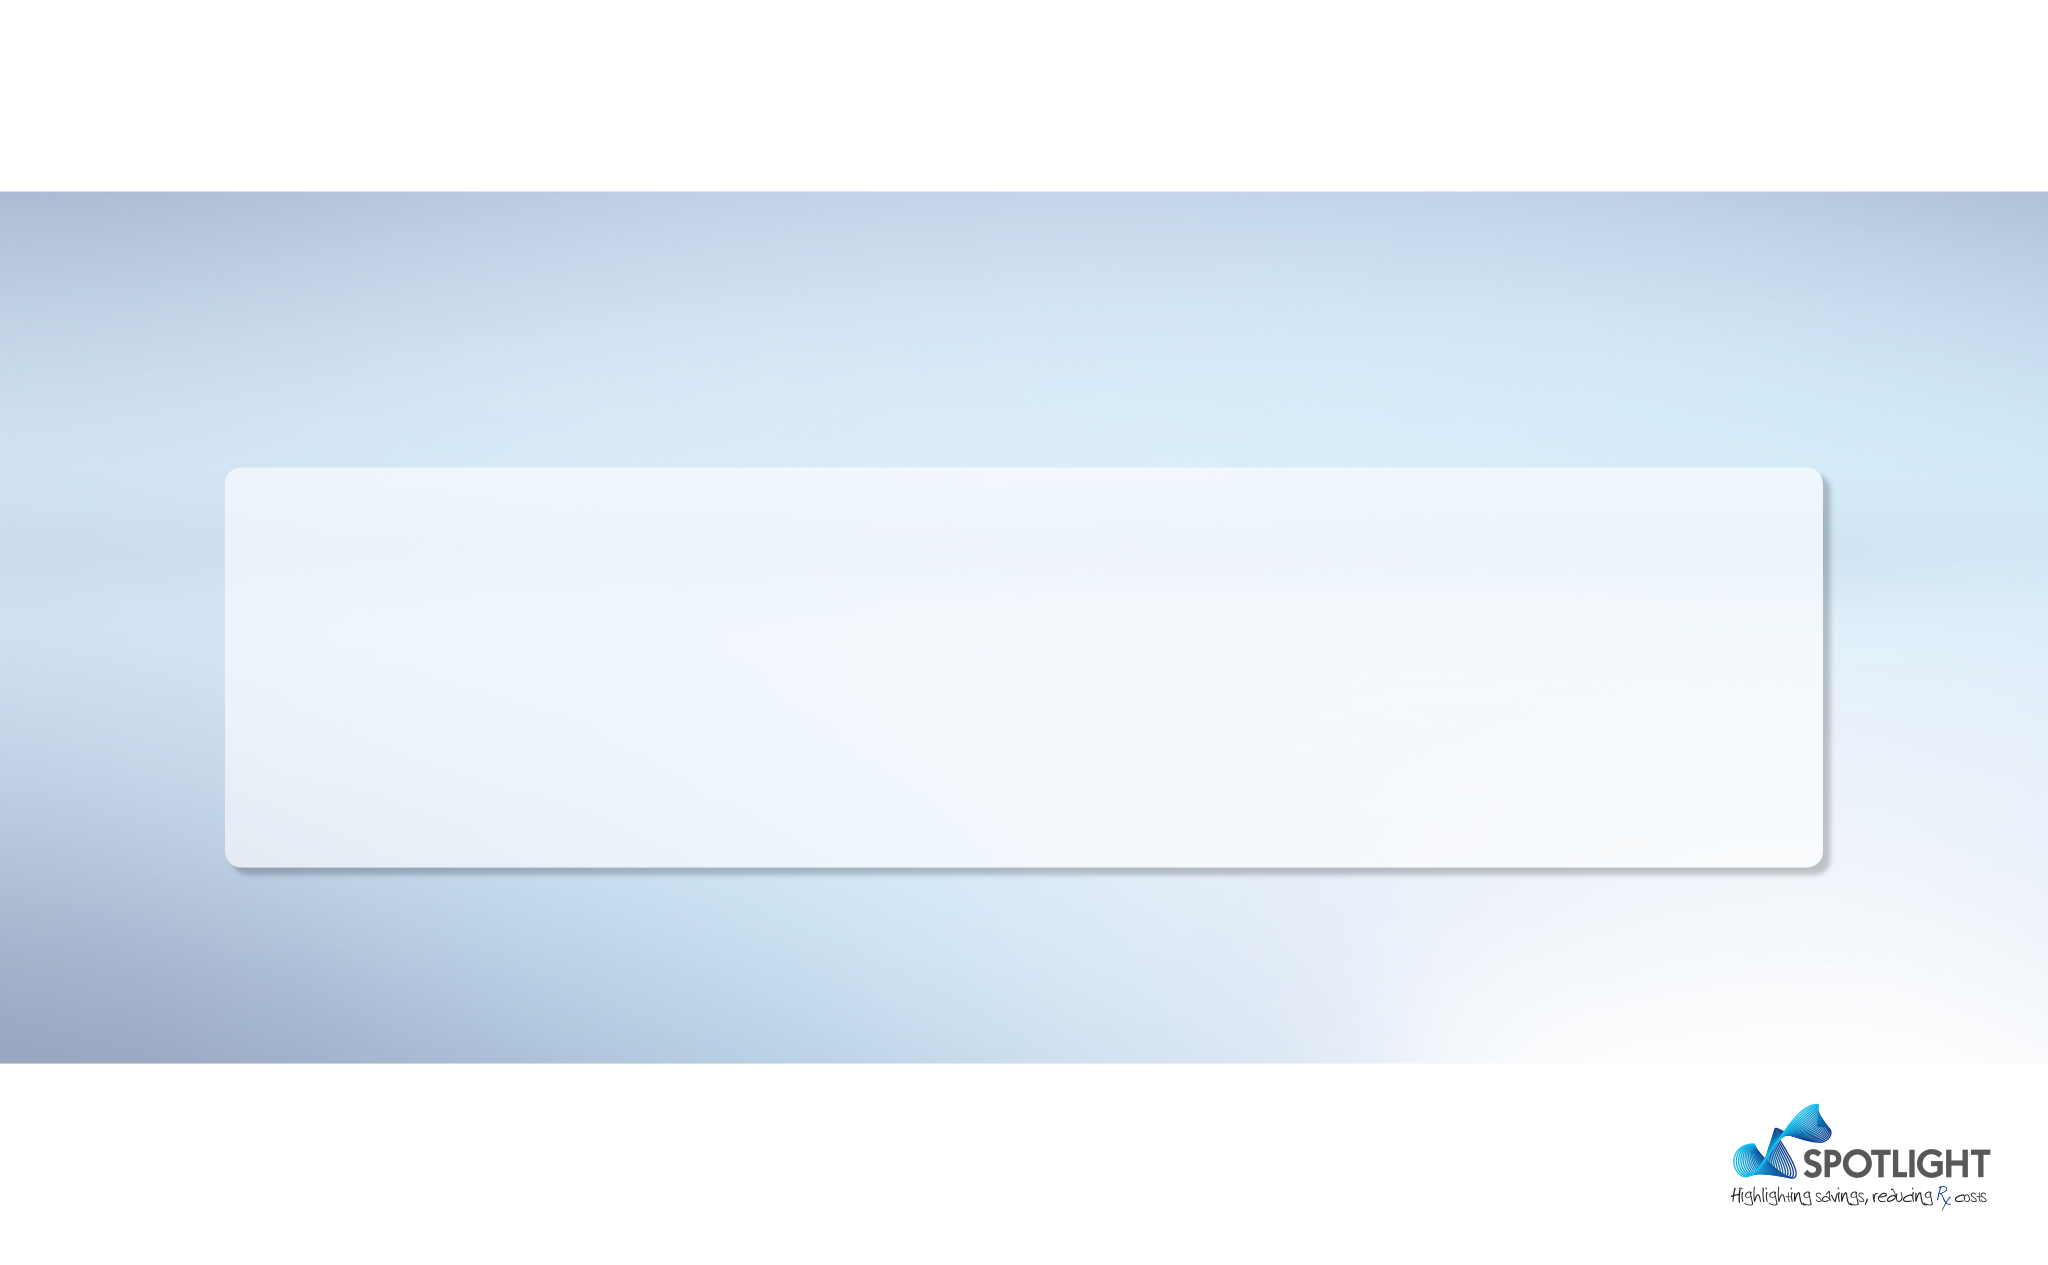
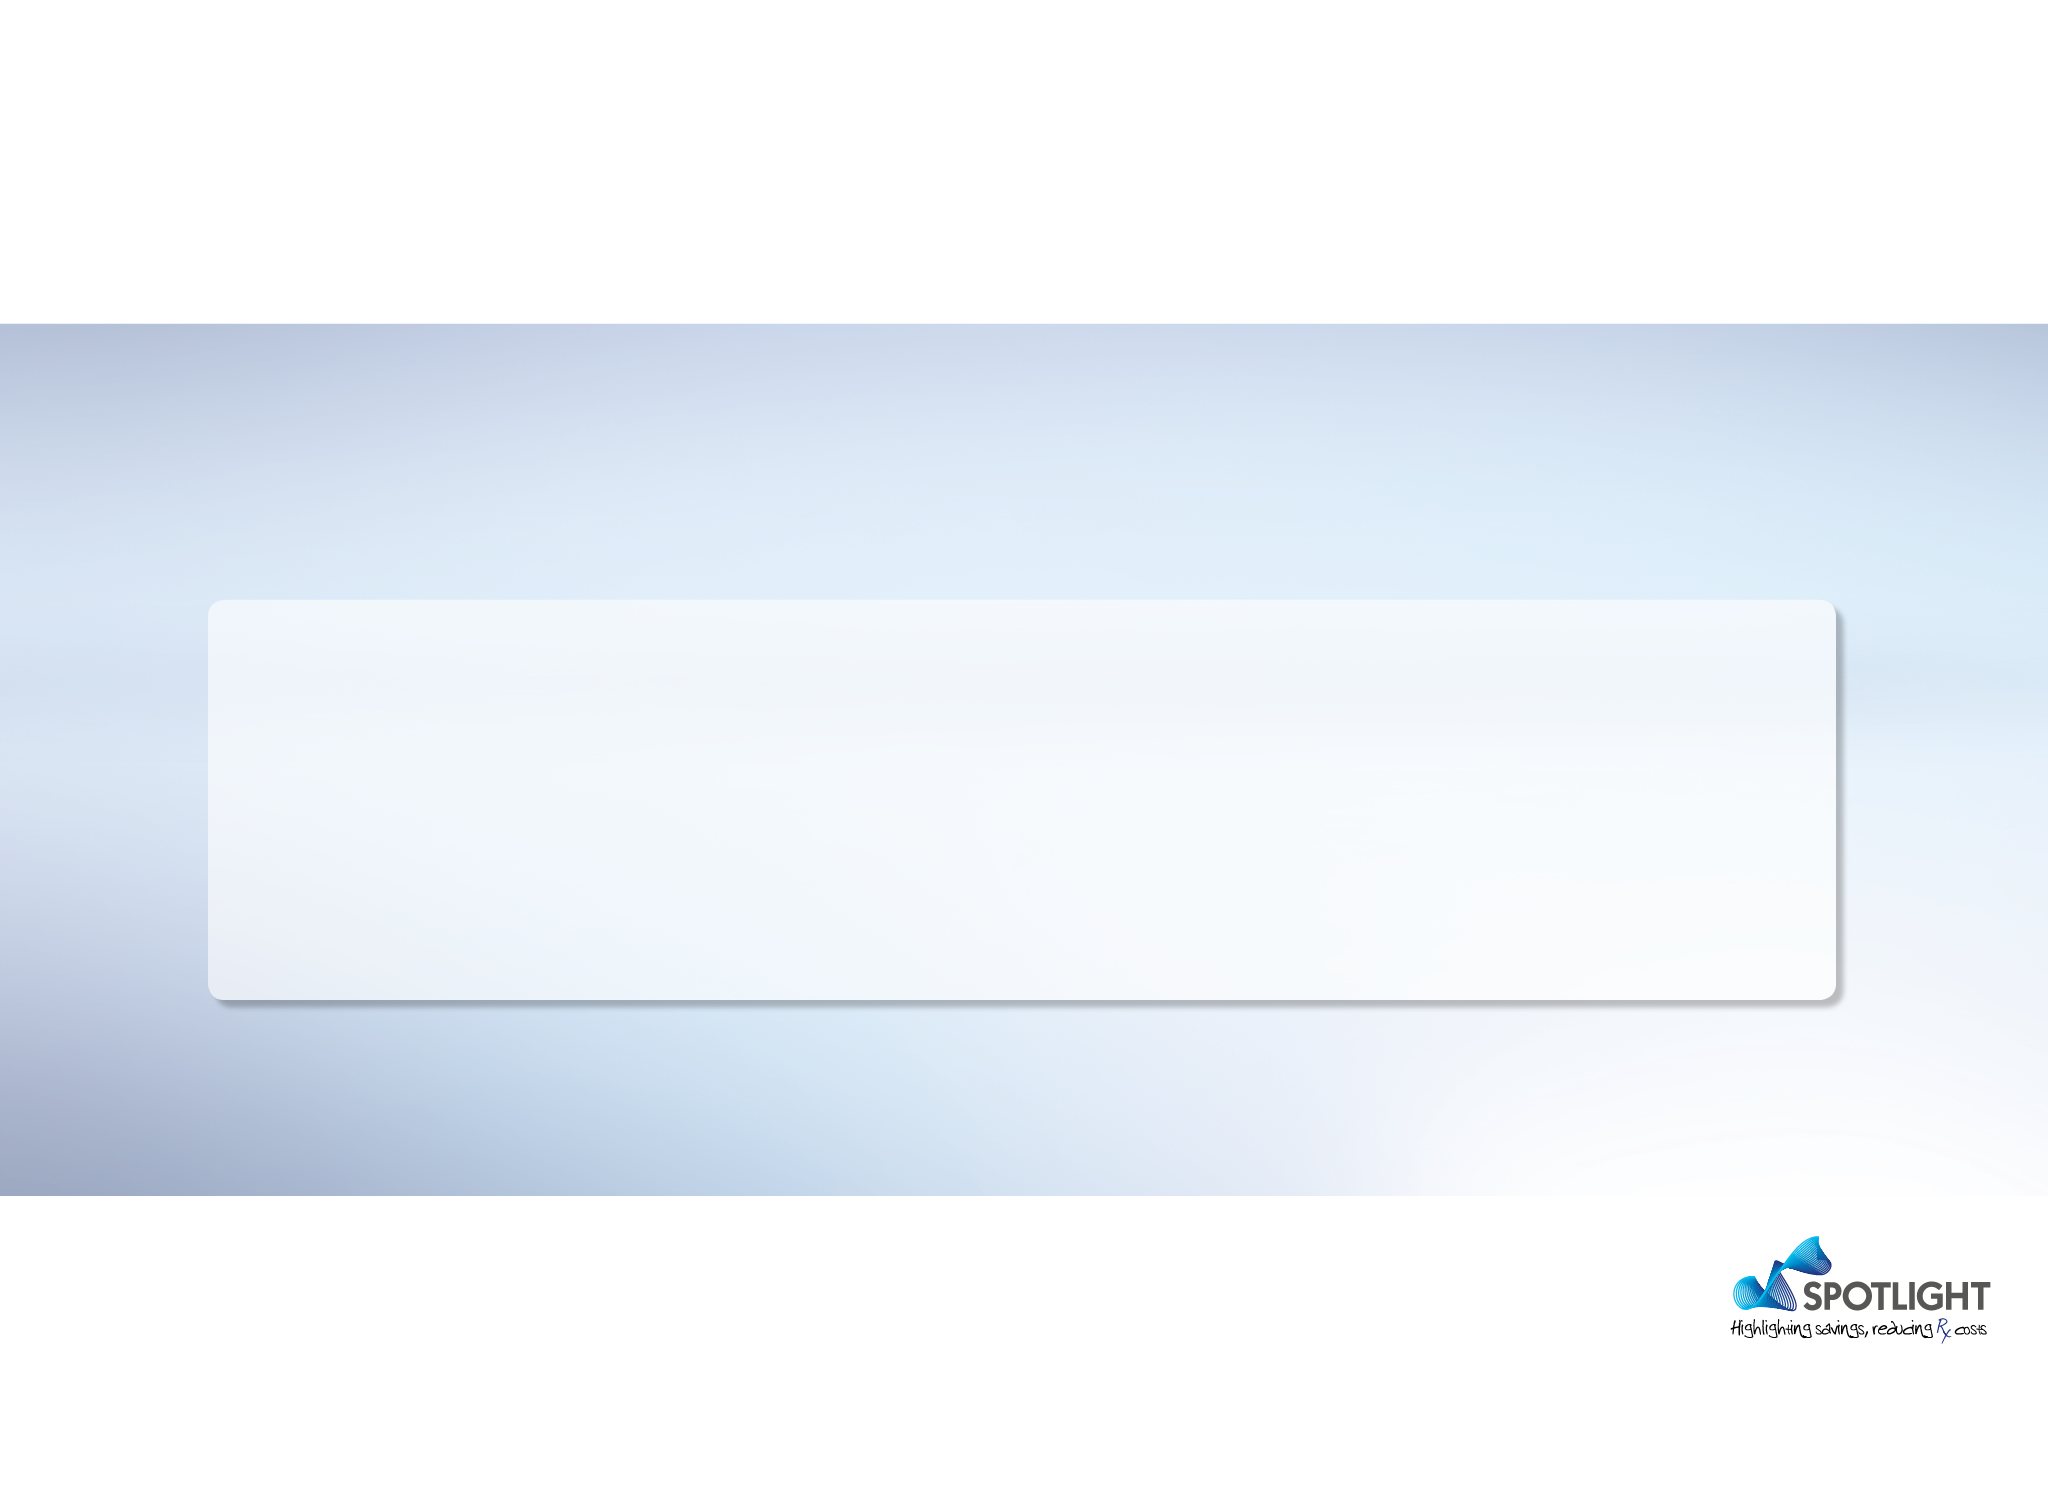
fixed why brand

diff --git a/presentations/01_presentation_what_is_spotlight/04_slide_why_prescribe_by_brand_cont/css/style.css b/presentations/01_presentation_what_is_spotlight/04_slide_why_prescribe_by_brand_cont/css/style.css
@@ -32,13 +32,13 @@ top: 0;
 #slide_container ul {
 	width:365px;
     position: absolute;
-    top:304px;
-    left:146px;
+    top:310px;
+    left:132px;
 }
 
 #slide_container ul:nth-child(4) {
 	
-    left:526px;
+    left:514px;
 }
 
 #slide_container h3 {
